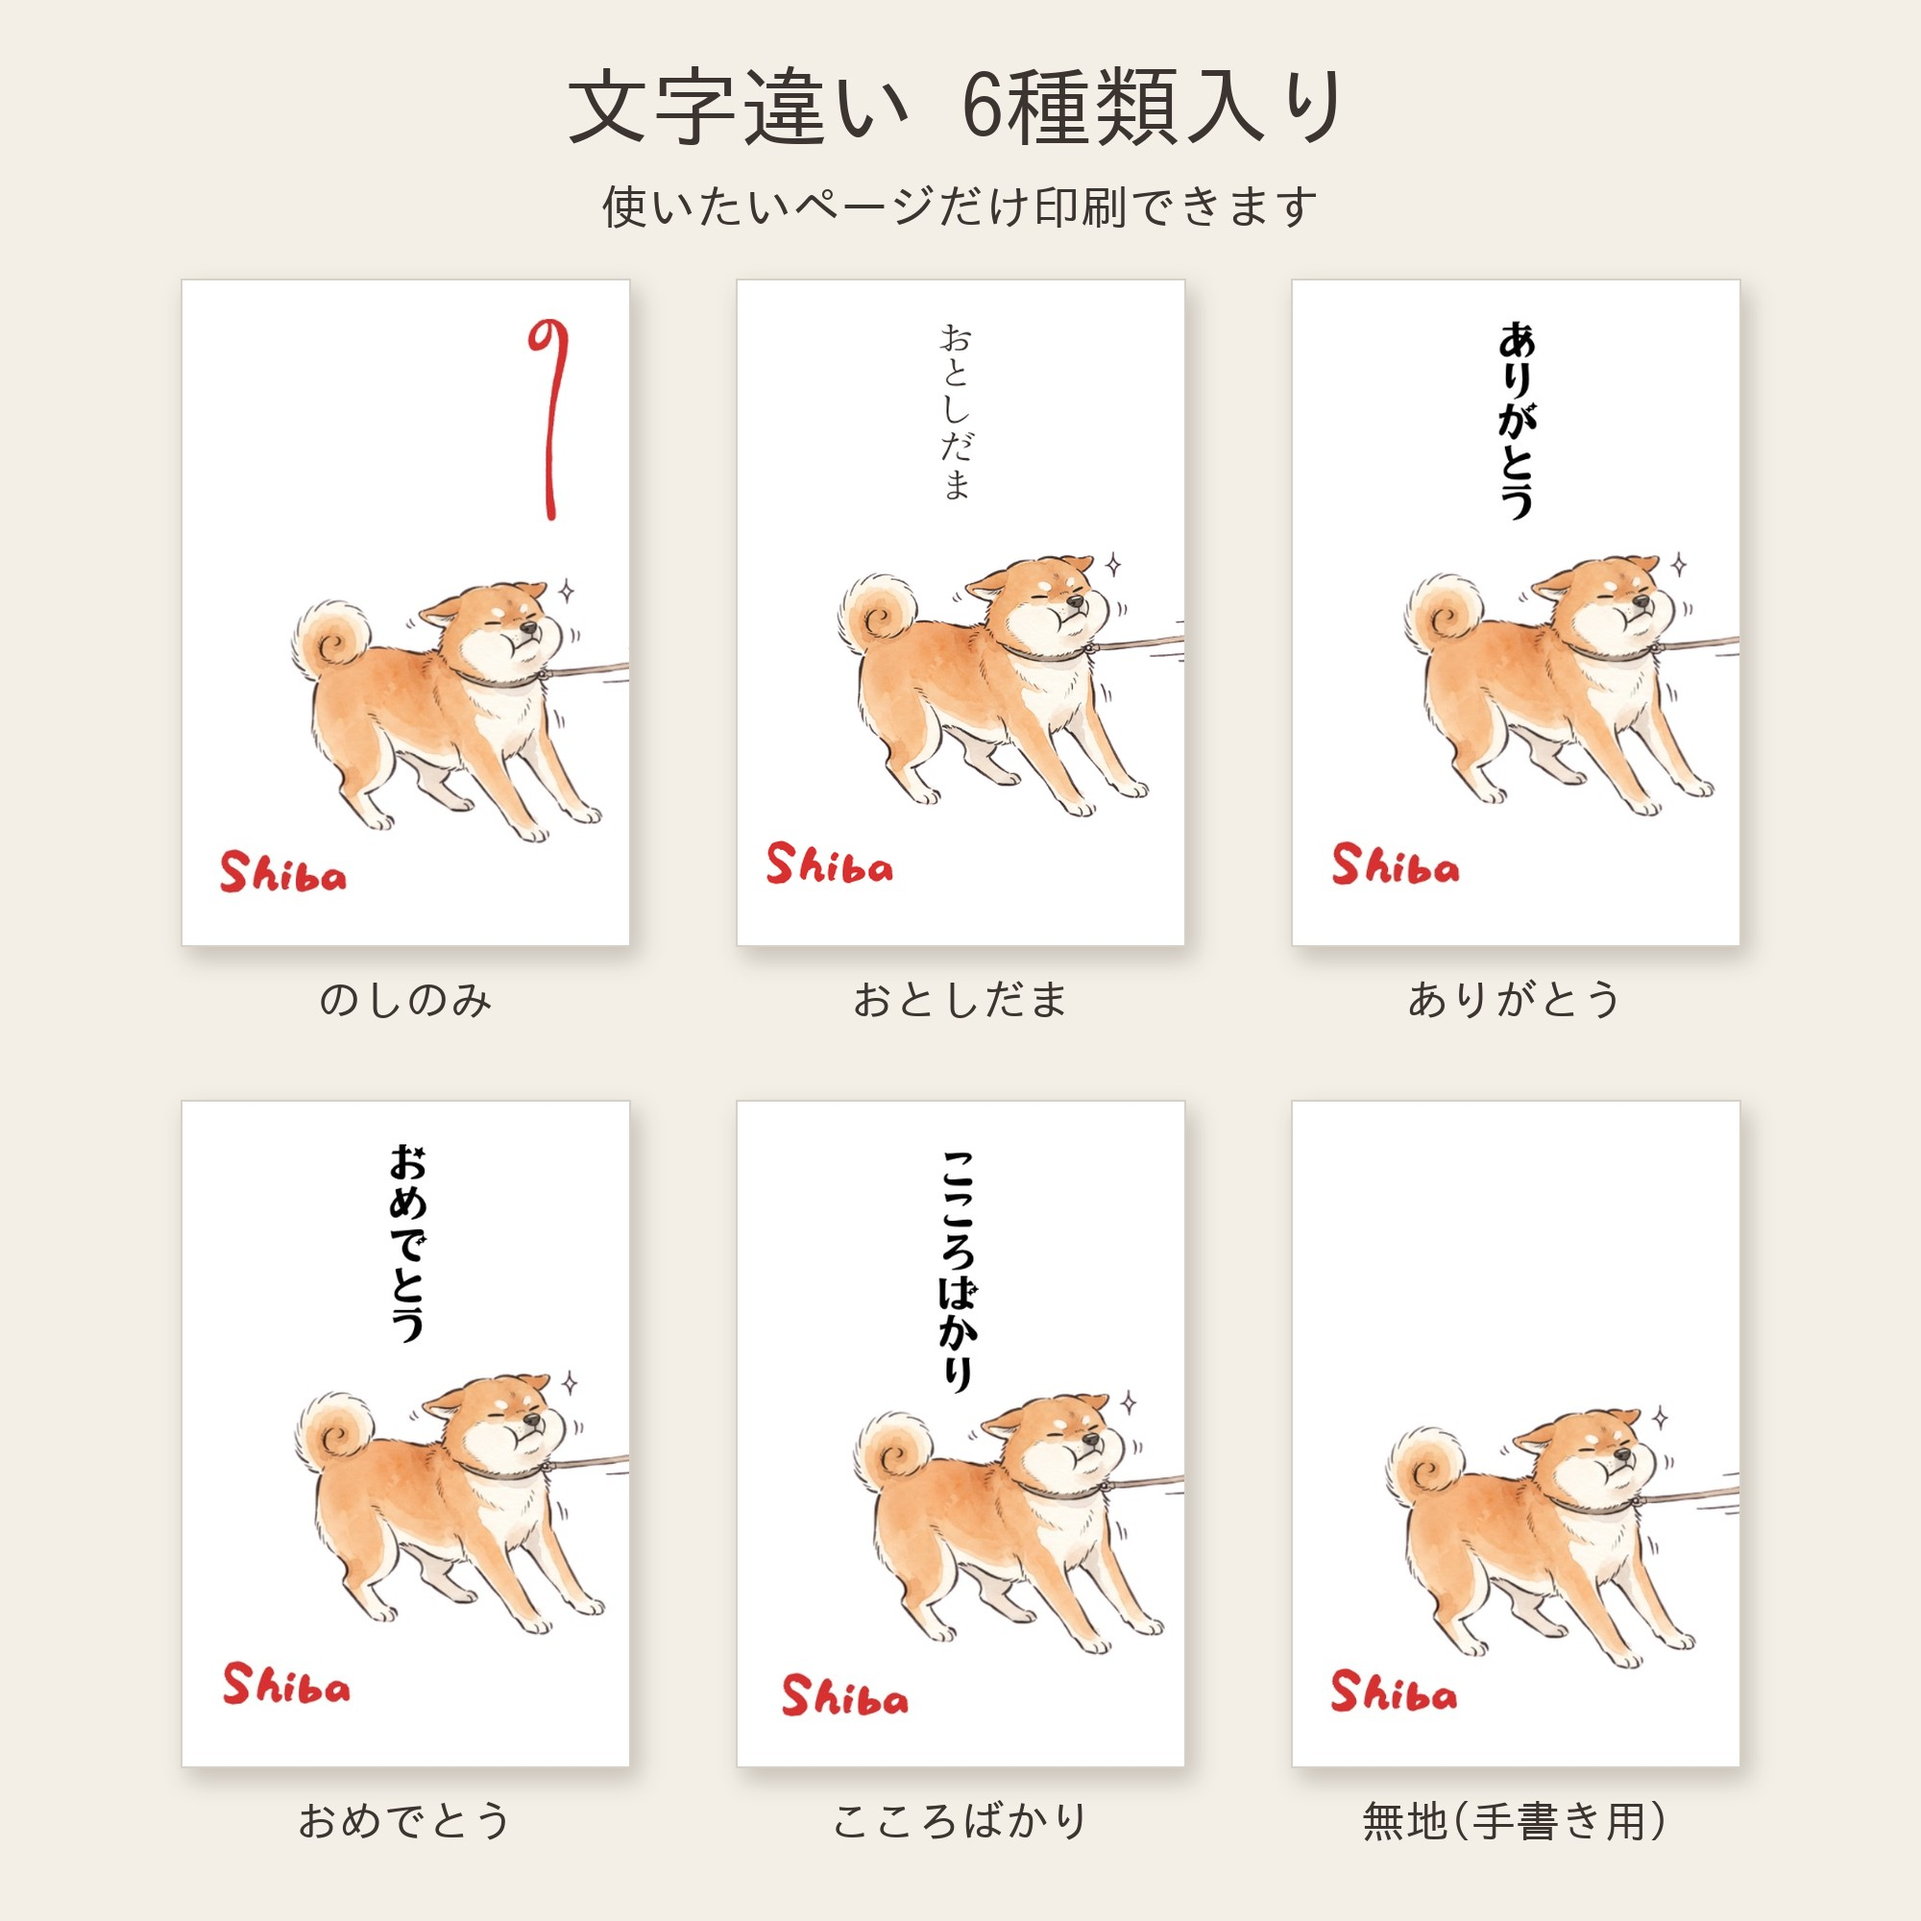
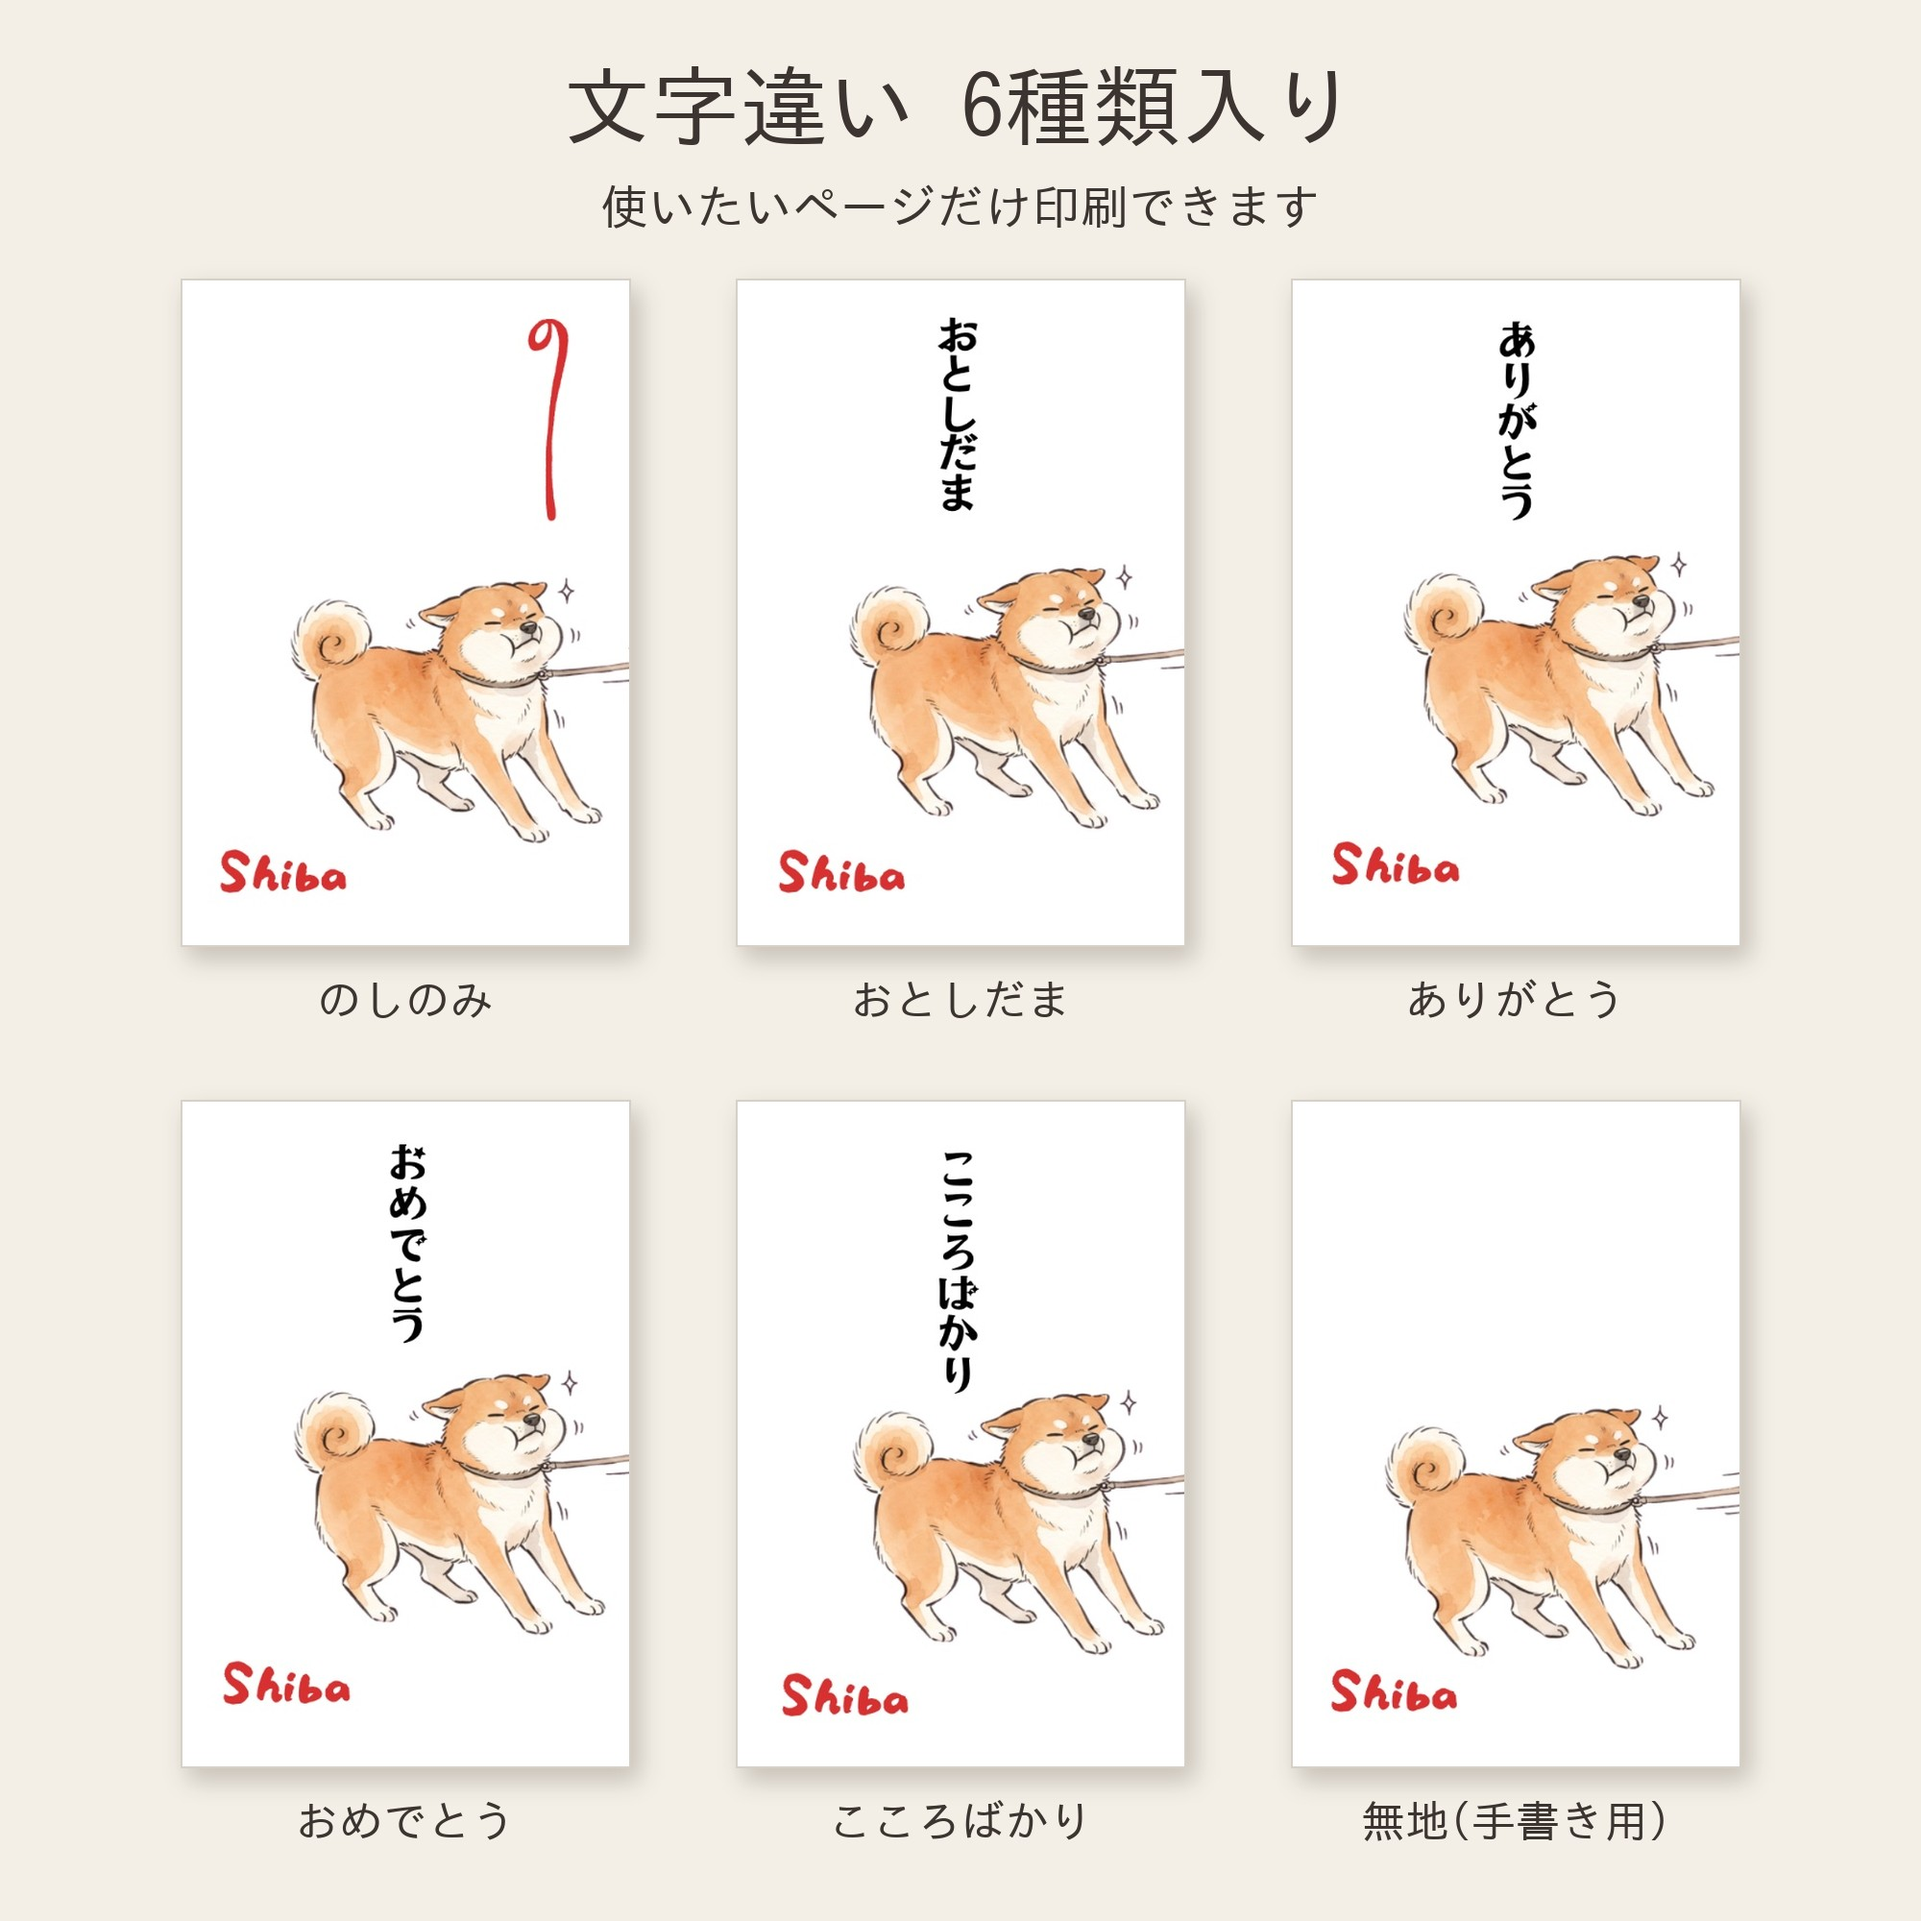
Six-variant image: use bold otoshidama to match the data
Claude-Session: https://claude.ai/code/session_01QWjhnwkGtLBYh5aBhsN5Vu

Changed region(s): [[0.434, 0.217, 0.62, 0.434], [0.403, 0.434, 0.465, 0.465], [0.496, 0.155, 0.527, 0.186]]

diff --git a/shop/make_listing_variants.py b/shop/make_listing_variants.py
@@ -9,7 +9,7 @@ D = Path("/tmp/claude-0/-home-user-my-first-repo/02cb9a5c-e2c2-5947-887e-aad52a1
 FONT = "/usr/share/fonts/opentype/ipafont-gothic/ipag.ttf"
 BG, INK = (244, 239, 230), (60, 52, 48)
 S = 2000
-ITEMS = [("78.jpg", "のしのみ"), ("59.png", "おとしだま"), ("79.jpg", "ありがとう"),
+ITEMS = [("78.jpg", "のしのみ"), ("81.jpg", "おとしだま"), ("79.jpg", "ありがとう"),
          ("80.jpg", "おめでとう"), ("76.jpg", "こころばかり"), ("77.jpg", "無地(手書き用)")]
 
 
